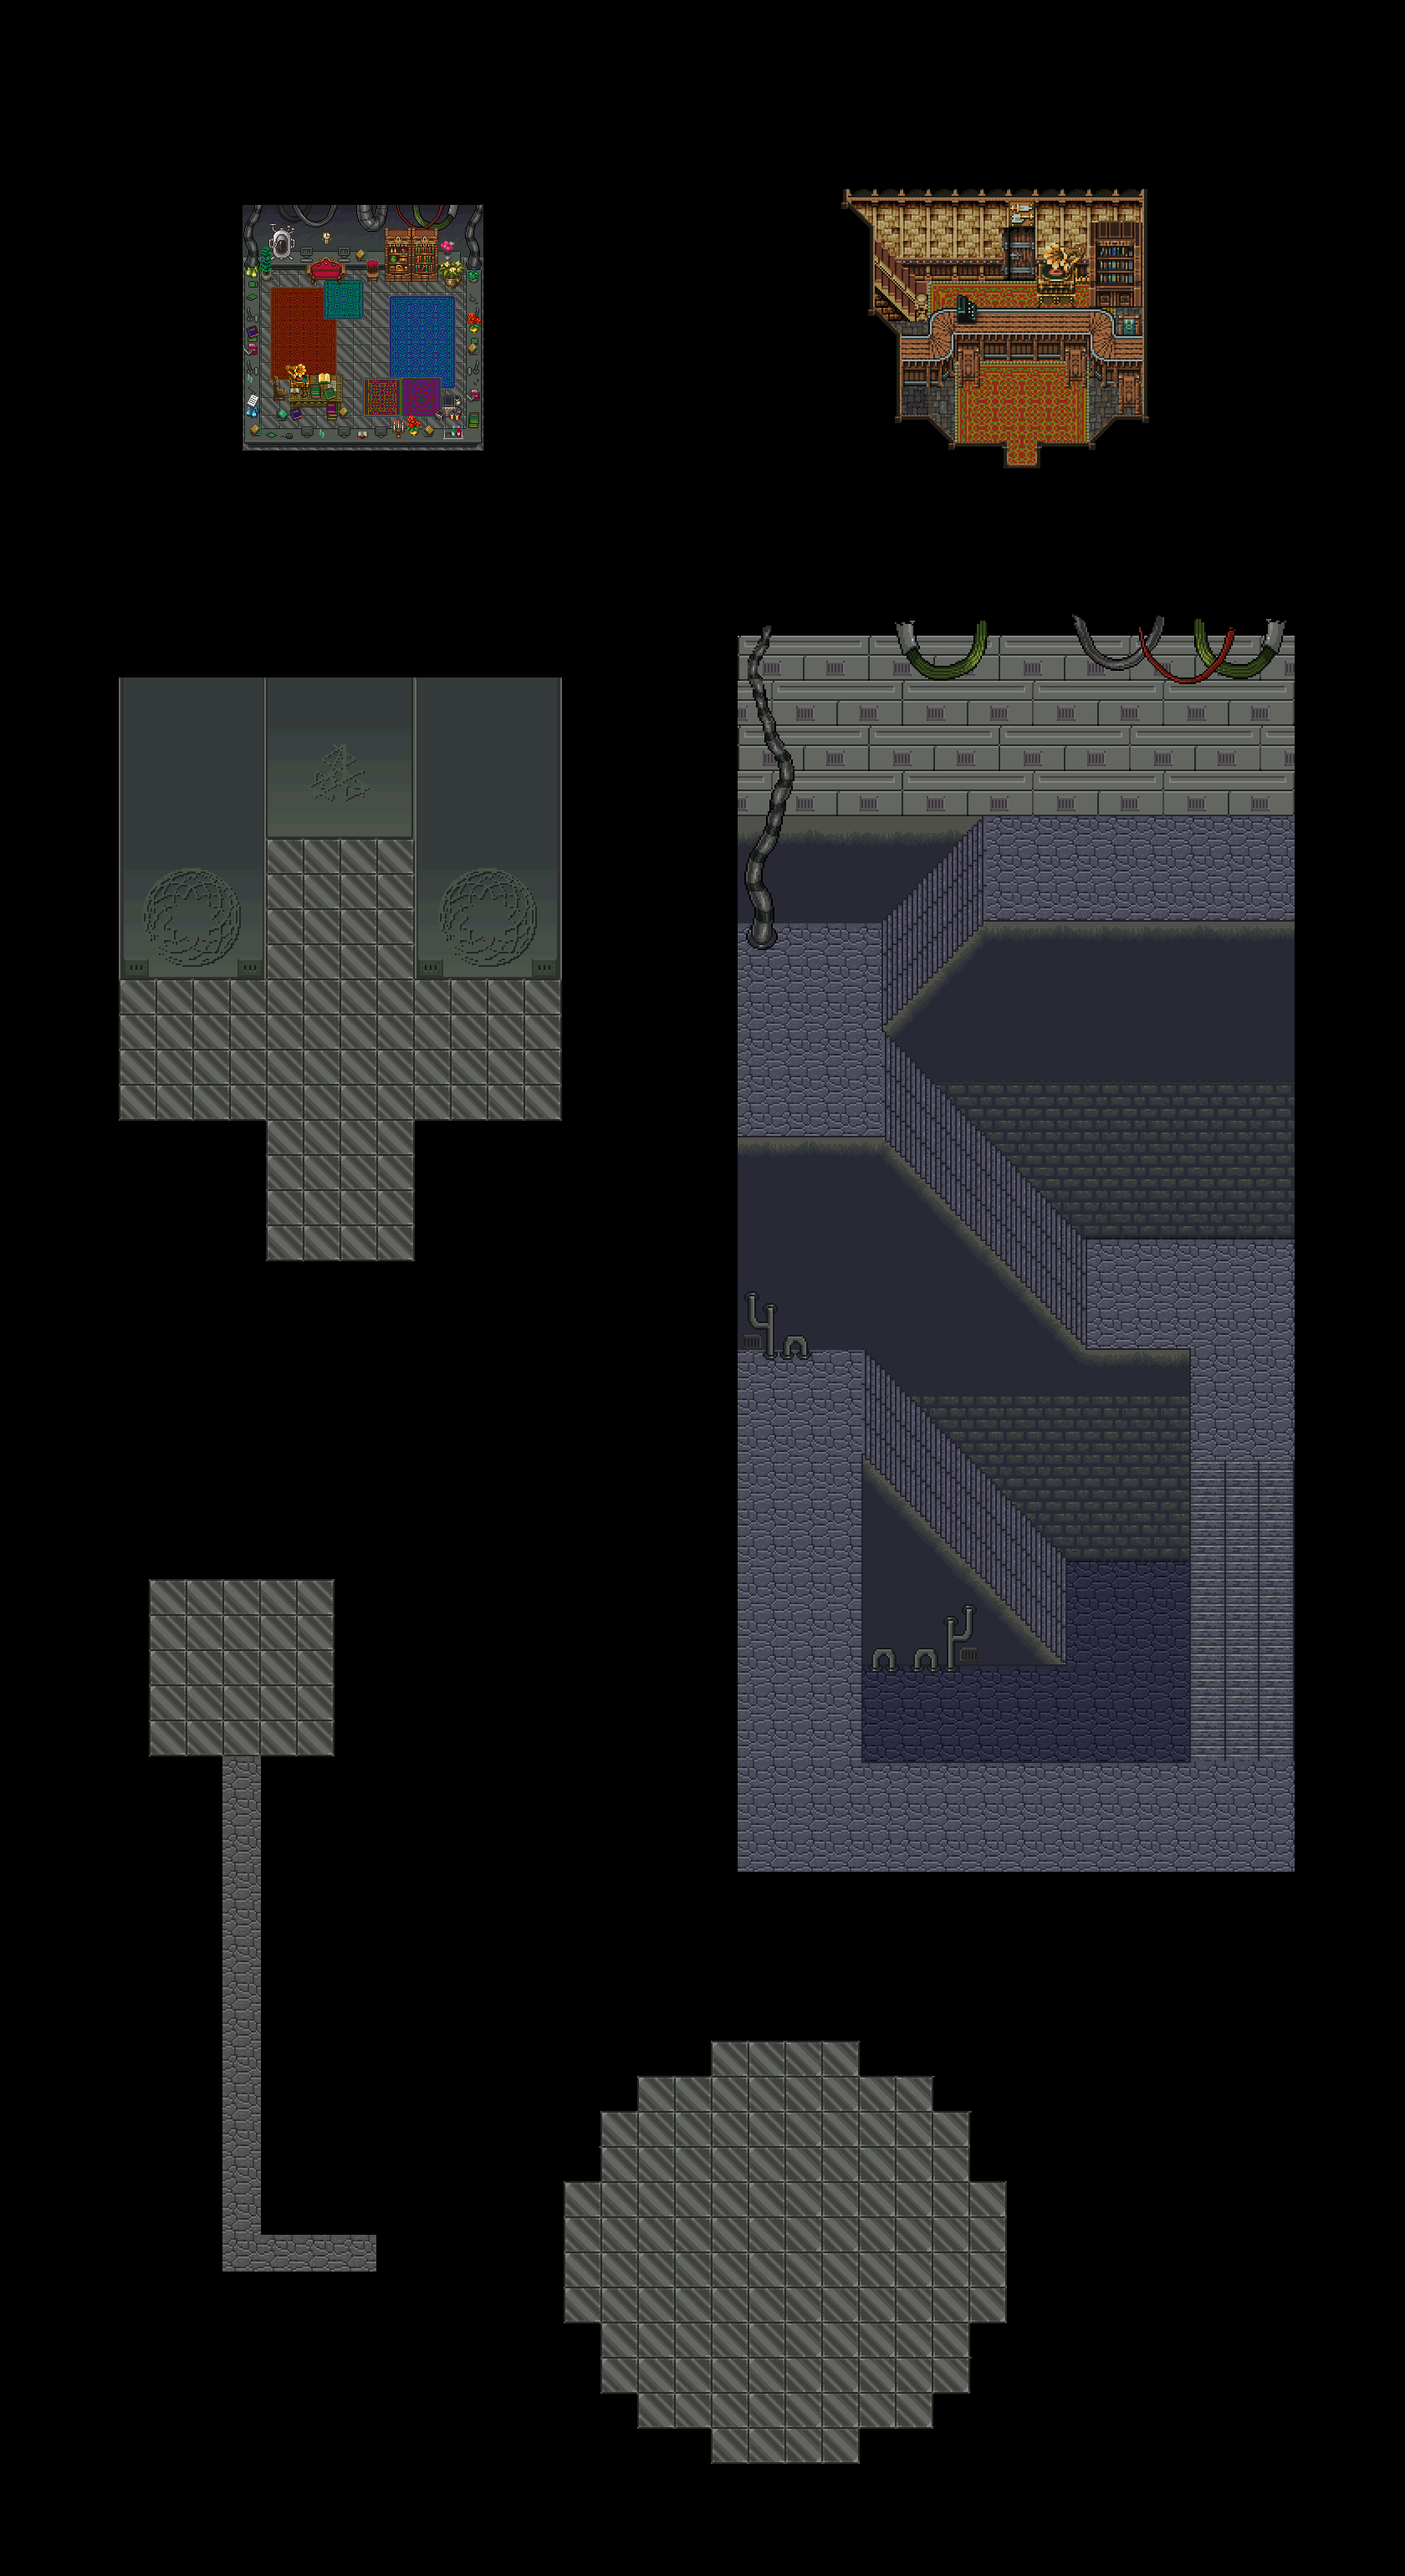
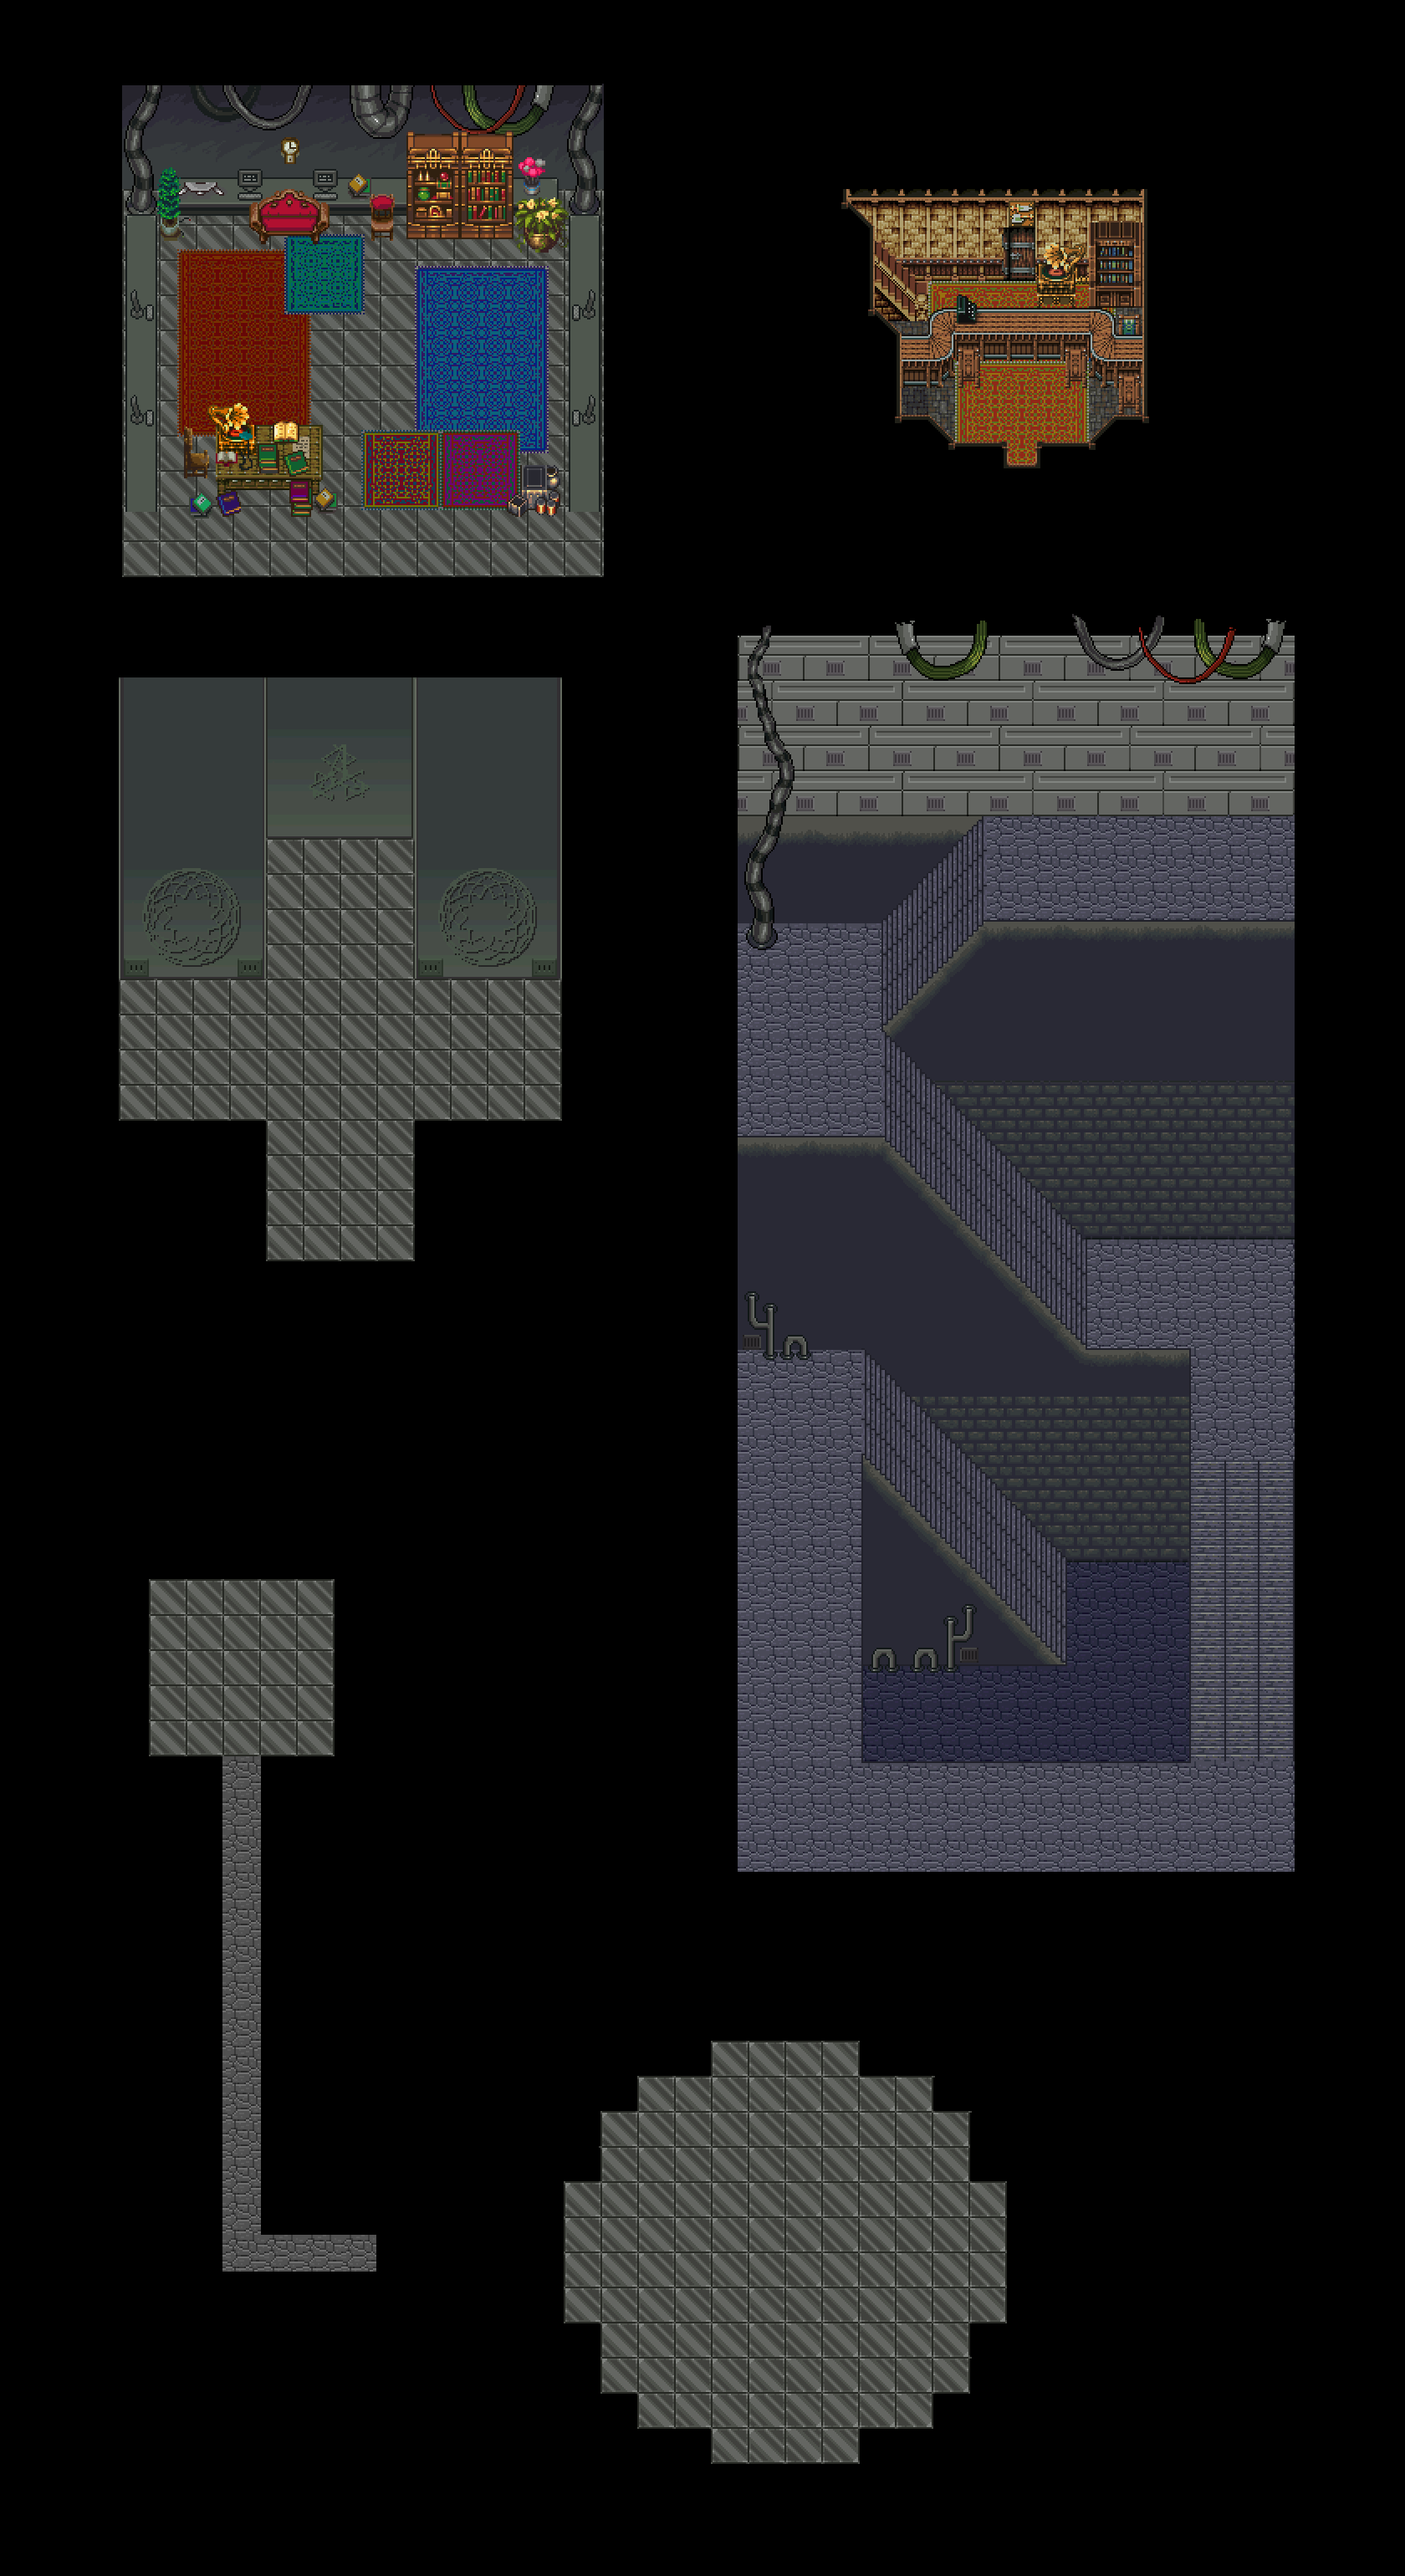
Graphical Tweaks
Changed Lab 2 BG and FG, new naming conventions for item graphics,
reformatted character list in FontEngine, fixed Teleporter pad sprite,
Enabled music.

Changed region(s): [[0.0619, 0.0312, 0.4333, 0.2494]]

diff --git a/src/FontEngine.js b/src/FontEngine.js
@@ -53,22 +53,21 @@ Sburb.FontEngine = function(text){
 }
 
 Sburb.FontEngine.prototype.prefixColours = {	
-	aa : "#a10000",aradia : "#a10000",
-	ac : "#416600",nepeta : "#416600",
-	ag : "#005682",vriska : "#005682",
-	at : "#a15000",tavros : "#a15000",
-	ca : "#6a006a",eridan : "#6a006a",
-	cc : "#77003c",feferi : "#77003c",
-	cg : "#626262",karkat : "#626262",
-	ct : "#000056",equius : "#000056",
-	ga : "#008141",kanaya : "#008141",
-	gc : "#008282",terezi : "#008282",
-	ta : "#a1a100",sollux : "#a1a100",
-	tc : "#2b0057",gamzee : "#2b0057",
-	dave:"#e00707",meenah : "#77003c",
-	rose:"#b536da",aranea : "#005682",
-	kankri:"#ff0000",porrim: "#008141",
-	latula:"#008282"
+	aa : "#a10000",aradia : "#a10000",damara : "#a10000",
+	ac : "#416600",nepeta : "#416600",meulin : "#416600",
+	ag : "#005682",vriska : "#005682",aranea : "#005682",
+	at : "#a15000",tavros : "#a15000",rufioh : "#a15000",
+    ca : "#6a006a",eridan : "#6a006a",cronus : "#6a006a",
+	cc : "#77003c",feferi : "#77003c",meenah : "#77003c",
+	cg : "#626262",karkat : "#626262",kankri : "#ff0000",
+	ct : "#000056",equius : "#000056",horuss : "#000056",
+	ga : "#008141",kanaya : "#008141",porrim : "#008141",
+	gc : "#008282",terezi : "#008282",latula : "#008282",
+	ta : "#a1a100",sollux : "#a1a100",mituna : "#a1a100",
+	tc : "#2b0057",gamzee : "#2b0057",kurloz : "#2b0057",
+	john : "#0715cd",dave : "#e00707",
+	jade : "#4ac925",rose : "#b536da",
+	case : "#3050a0",voice : "#ff0000"
 };
 
 //set the style

diff --git a/src/Character.js b/src/Character.js
@@ -9,7 +9,7 @@ var Sburb = (function(Sburb){
 Sburb.Character = function(name,x,y,width,height,sx,sy,sWidth,sHeight,sheet,bootstrap){
 	Sburb.Sprite.call(this,name,x,y,width,height,null,null,Sburb.Sprite.prototype.MG_DEPTHING,true);
 
-	this.speed = 12;
+	this.speed = 10;
 	this.vx = 0;
 	this.vy = 0;
 	this.facing = "Front";
